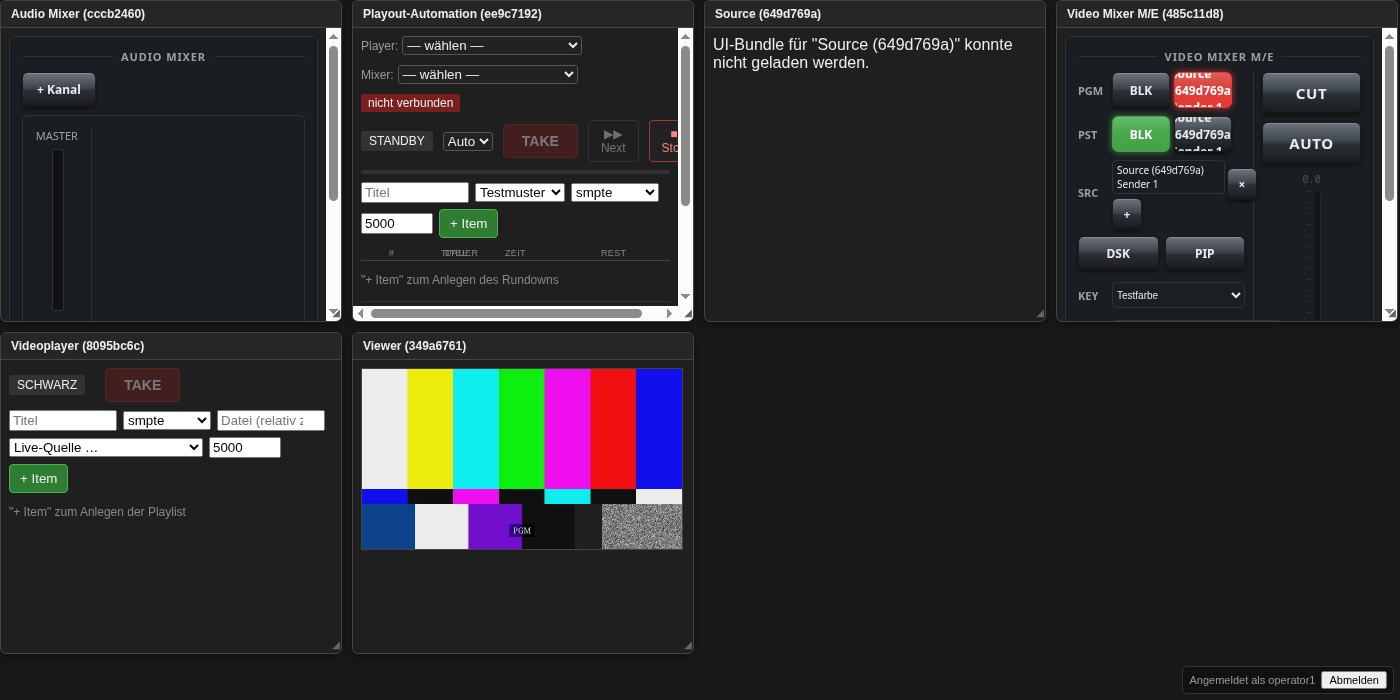
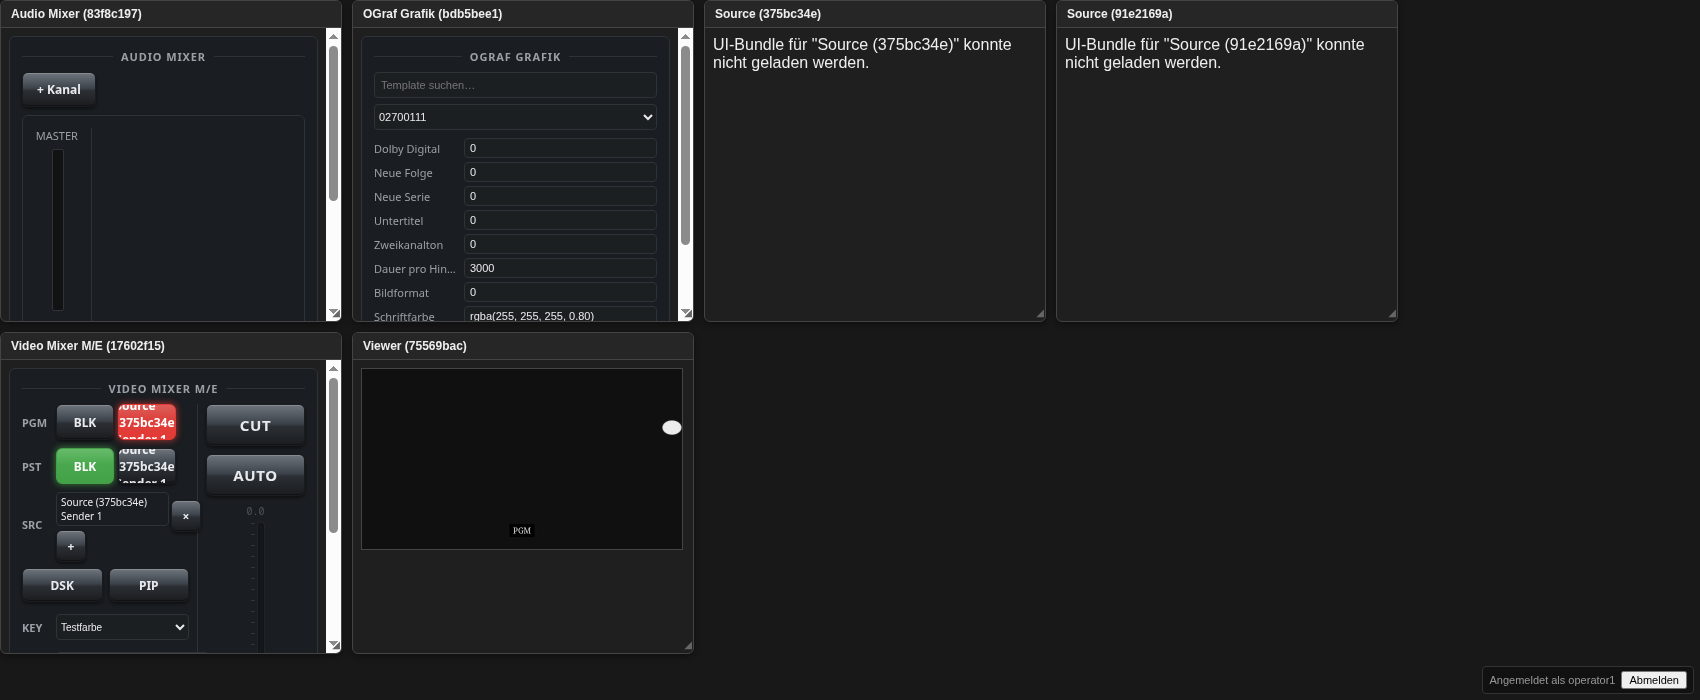
Regieplatz "Regie 1": Playout-Automation entfernt, zweite Testquelle (SMPTE+Ball) ergänzt
Workflow-Rollen jetzt: zwei omp-source-Instanzen (SMPTE-Farbbalken bzw.
"Ball"-Testmuster), omp-ograf, omp-video-mixer-me, omp-audio-mixer,
omp-viewer — kein Player/keine Playout-Automation mehr, reiner
Live-Schaltplatz statt Playlist-Betrieb.

BENUTZERHANDBUCH.md §8.1 und der neue regieplatz-1.png-Screenshot
aktualisiert (Ball-Quelle live auf PGM, Bewegtbild im Viewer bestätigt).

diff --git a/docs/BENUTZERHANDBUCH.md b/docs/BENUTZERHANDBUCH.md
@@ -205,23 +205,32 @@ Bildschirm, an dem stets derselbe Browser läuft.
 
 ### 8.1 Beispiel: Regieplatz „Regie 1"
 
-Ein zweites, vollständiges Beispiel — der Workflow „Regie 1" (Source,
-Videoplayer, Playout-Automation, Video Mixer M/E, Audio Mixer, Viewer)
-mit einem Operator, der auf alle sechs Rollen `Bedienen`-Rechte hat:
+Ein zweites, vollständiges Beispiel — der Workflow „Regie 1" ohne
+Playout-Automation, dafür mit zwei parallelen Testquellen (zwei
+`omp-source`-Instanzen, unterschiedliches Testmuster: SMPTE-Farbbalken
+und der bewegte „Ball") plus OGraf-Grafik, Video Mixer M/E, Audio Mixer
+und Viewer, mit einem Operator, der auf alle sechs Rollen
+`Bedienen`-Rechte hat:
 
-![Regieplatz „Regie 1": Audio Mixer, Playout-Automation, Source, Video Mixer M/E, Videoplayer, Viewer](screenshots/regieplatz-1.png)
+![Regieplatz „Regie 1": Audio Mixer, OGraf Grafik, zwei Sources (SMPTE/Ball), Video Mixer M/E, Viewer](screenshots/regieplatz-1.png)
 
-- **Audio Mixer**, **Playout-Automation**, **Video Mixer M/E**,
-  **Videoplayer**, **Viewer** — je die eigene Node-Oberfläche, identisch
-  zu der, die auch im Flow-Editor-Parameter-Panel erscheint.
-- **Source** — zeigt hier bewusst „UI-Bundle … konnte nicht geladen
-  werden": nicht jeder Node-Typ bringt eine eigene Bedienoberfläche mit
-  (`omp-source` hat keine, außer den generischen Parametern nichts zu
-  bedienen) — die Konsole meldet das ehrlich statt eine leere Kachel
-  ohne Erklärung zu zeigen.
-- Im Screenshot wurde über den Video-Mixer-M/E-Bedienpult bereits eine
-  Quelle an die Kreuzschiene angeheftet (SRC „+") und auf PGM
-  geschnitten — der Viewer zeigt das reale, laufende Farbbalkenbild.
+- **Audio Mixer**, **OGraf Grafik**, **Video Mixer M/E**, **Viewer** —
+  je die eigene Node-Oberfläche, identisch zu der, die auch im
+  Flow-Editor-Parameter-Panel erscheint.
+- **Zwei Source-Kacheln** — beide zeigen hier bewusst „UI-Bundle …
+  konnte nicht geladen werden": nicht jeder Node-Typ bringt eine eigene
+  Bedienoberfläche mit (`omp-source` hat keine, außer den generischen
+  Parametern nichts zu bedienen) — die Konsole meldet das ehrlich statt
+  eine leere Kachel ohne Erklärung zu zeigen. Welche Quelle welches
+  Testmuster zeigt, stellt man über deren `pattern`-Parameter im
+  Flow-Editor ein (Parameter-Panel bei Doppelklick auf die Kachel).
+- Im Screenshot wurde über den Video-Mixer-M/E-Bedienpult die
+  „Ball"-Quelle an die Kreuzschiene angeheftet (SRC „+") und auf PGM
+  geschnitten — der Viewer zeigt das reale, laufende Bild (der Ball
+  bewegt sich auf schwarzem Grund).
+- Ohne Playout-Automation-Rolle steuert der Operator hier rein manuell
+  (Cut/Auto, Kreuzschiene, DSK/PIP) statt über eine Playlist — passend
+  für einen reinen Live-Schaltplatz ohne Bandmaterial.
 
 ## 9. Weiterführende Dokumente
 

diff --git a/README.md b/README.md
@@ -76,7 +76,7 @@ Oberfläche (mit Screenshots): [`docs/BENUTZERHANDBUCH.md`](docs/BENUTZERHANDBUC
 
 ![Flow Editor mit laufenden Node-Instanzen](docs/screenshots/flow-editor.png)
 
-![Regieplatz "Regie 1": mehrere Microservice-UIs (Audio Mixer, Playout-Automation, Video Mixer M/E, Videoplayer, Viewer) in einer Operator-Konsole](docs/screenshots/regieplatz-1.png)
+![Regieplatz "Regie 1": mehrere Microservice-UIs (Audio Mixer, OGraf Grafik, zwei Sources, Video Mixer M/E, Viewer) in einer Operator-Konsole](docs/screenshots/regieplatz-1.png)
 
 ## Status
 